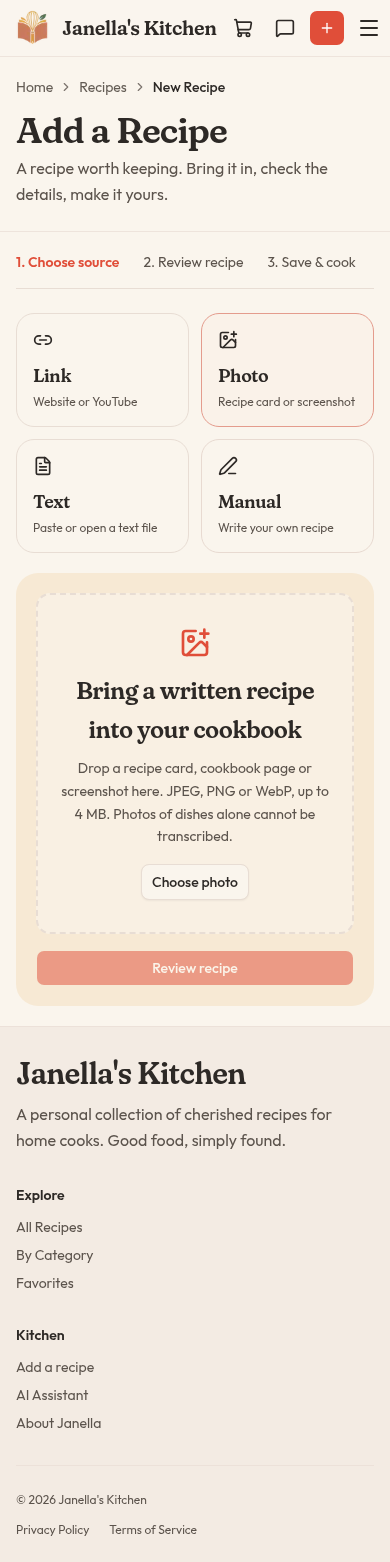
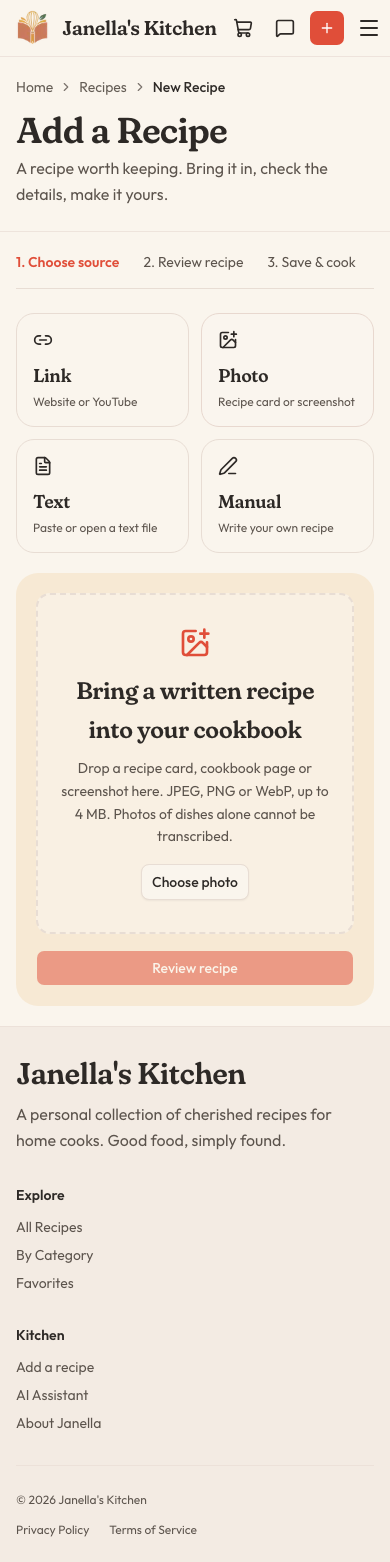
fix(mcp): return bearer challenges for rejected credentials (#144)
- Remove OAuth protected-resource discovery for the shared-token endpoint
- Document token rotation and add coverage for bearer challenges and initialization

diff --git a/tests/recipe-mcp.test.ts b/tests/recipe-mcp.test.ts
@@ -7,10 +7,7 @@ import type { RecipeWithRelations } from "@/types/recipe";
 import type { JsonObject } from "@/types/json";
 import { z } from "zod";
 
-const [{ createRecipeTools }, { GET: protectedResource }] = await Promise.all([
-  import("@/lib/recipe-mcp"),
-  import("@/app/.well-known/oauth-protected-resource/route"),
-]);
+const { createRecipeTools } = await import("@/lib/recipe-mcp");
 
 const token = "synthetic-mcp-token";
 
@@ -279,48 +276,58 @@ function request(
   });
 }
 
-test("the HTTP endpoint rejects missing and invalid credentials before recipe access", async () => {
-  vi.stubEnv("MCP_API_TOKEN", token);
-  vi.resetModules();
+test.each([
+  { authorization: null, challenge: 'Bearer realm="Janella Cookbook"' },
+  {
+    authorization: "Basic synthetic-mcp-token",
+    challenge: 'Bearer realm="Janella Cookbook"',
+  },
+  {
+    authorization: "Bearer previous-cookbook-token",
+    challenge:
+      'Bearer realm="Janella Cookbook", error="invalid_token", error_description="Update the client Authorization header with the current cookbook token"',
+  },
+])(
+  "the HTTP endpoint challenges $authorization before handling the MCP request",
+  async ({ authorization, challenge }) => {
+    vi.stubEnv("MCP_API_TOKEN", token);
+    vi.resetModules();
 
-  const { POST } = await import("@/app/api/mcp/route");
+    const { POST } = await import("@/app/api/mcp/route");
+    const response = await POST(request("tools/list", {}, authorization));
 
-  const responses = await Promise.all(
-    [null, "Bearer incorrect-token", "Basic synthetic-mcp-token"].map((authorization) =>
-      Promise.resolve(POST(request("tools/list", {}, authorization))),
-    ),
-  );
-
-  for (const response of responses) {
     expect(response.status).toBe(401);
-    expect(response.headers.get("www-authenticate")).toContain(
-      "https://cookbook.example/.well-known/oauth-protected-resource",
-    );
-  }
+    expect(response.headers.get("WWW-Authenticate")).toBe(challenge);
+  },
+);
 
-  expect(listRecipes).not.toHaveBeenCalled();
-  expect(createRecipe).not.toHaveBeenCalled();
-});
-
-test("the endpoint fails closed when its token is missing and advertises proxy metadata", async () => {
+test("the endpoint fails closed even with a client token when its server token is missing", async () => {
   vi.stubEnv("MCP_API_TOKEN", "");
   vi.resetModules();
 
   const { POST } = await import("@/app/api/mcp/route");
 
-  expect((await POST(request("tools/list", {}))).status).toBe(503);
+  const response = await POST(request("tools/list", {}));
+  expect(response.status).toBe(503);
+  expect(response.headers.has("WWW-Authenticate")).toBe(false);
+});
 
-  const response = protectedResource(
-    new Request("http://localhost:3000/.well-known/oauth-protected-resource", {
-      headers: { "x-forwarded-host": "cookbook.example", "x-forwarded-proto": "https" },
+test("the current bearer token can initialize an MCP connection", async () => {
+  vi.stubEnv("MCP_API_TOKEN", token);
+  vi.resetModules();
+
+  const { POST } = await import("@/app/api/mcp/route");
+
+  const response = await POST(
+    request("initialize", {
+      protocolVersion: "2025-06-18",
+      capabilities: {},
+      clientInfo: { name: "test-client", version: "1.0.0" },
     }),
   );
 
-  expect(await response.json()).toMatchObject({
-    resource: "https://cookbook.example/api/mcp",
-    authorization_servers: [],
-    scopes_supported: ["recipes:read", "recipes:write"],
-  });
+  expect(response.status).toBe(200);
+  expect(await response.text()).toContain('"name":"janella-cookbook"');
 });
 
 test("stateless GET returns 405 after authentication", async () => {

diff --git a/app/api/mcp/route.ts b/app/api/mcp/route.ts
@@ -1,6 +1,6 @@
 import { createHash, timingSafeEqual } from "node:crypto";
 import type { AuthInfo } from "@modelcontextprotocol/server";
-import { createMcpHandler, withMcpAuth } from "mcp-handler";
+import { createMcpHandler } from "mcp-handler";
 import { registerRecipeTools } from "@/lib/recipe-mcp";
 import { env } from "@/lib/env";
 
@@ -19,29 +19,43 @@ const mcpHandler = createMcpHandler(registerRecipeTools, {
   maxSubscriptions: 0,
 });
 
-function verifyToken(_request: Request, token?: string): AuthInfo | undefined {
-  const expected = env.MCP_API_TOKEN;
-
-  if (!token || !expected) {
-    return undefined;
-  }
-
-  if (!timingSafeEqual(digest(token), digest(expected))) {
-    return undefined;
-  }
-
-  return { token, clientId: "cookbook", scopes: ["recipes:read", "recipes:write"] };
-}
-
-const authenticatedHandler = withMcpAuth(mcpHandler, verifyToken, { required: true });
+const bearerChallenge = 'Bearer realm="Janella Cookbook"';
 
 function handler(request: Request) {
+  const expected = env.MCP_API_TOKEN;
+
   // Never expose a writable public endpoint when deployment configuration is missing.
-  if (!env.MCP_API_TOKEN) {
+  if (!expected) {
     return Response.json({ error: "Recipe MCP is not configured." }, { status: 503 });
   }
 
-  return authenticatedHandler(request);
+  const authorization = request.headers.get("Authorization") ?? "";
+  const token = /^Bearer +(\S+)$/i.exec(authorization)?.[1];
+
+  if (!token) {
+    return new Response(null, {
+      status: 401,
+      headers: { "WWW-Authenticate": bearerChallenge },
+    });
+  }
+
+  if (!timingSafeEqual(digest(token), digest(expected))) {
+    const description = "Update the client Authorization header with the current cookbook token";
+
+    return Response.json(
+      { error: "invalid_token", error_description: description },
+      {
+        status: 401,
+        headers: {
+          "WWW-Authenticate": `${bearerChallenge}, error="invalid_token", error_description="${description}"`,
+        },
+      },
+    );
+  }
+
+  const auth: AuthInfo = { token, clientId: "cookbook", scopes: ["recipes:read", "recipes:write"] };
+
+  return mcpHandler(Object.assign(request, { auth }));
 }
 
 export { handler as GET, handler as POST };

diff --git a/README.md b/README.md
@@ -52,7 +52,7 @@ Set `MCP_API_TOKEN` to a random secret in your local environment or the Vercel p
 openssl rand -hex 32
 ```
 
-All MCP requests require `Authorization: Bearer <your token>`. A missing server token disables the endpoint with HTTP 503; missing or invalid client credentials return HTTP 401. This setup uses a shared token; clients must support an explicit Authorization header. Interactive OAuth sign-in is not implemented.
+All MCP requests require `Authorization: Bearer <your token>`. A missing server token disables the endpoint with HTTP 503. Missing client credentials receive HTTP 401 with a Bearer challenge. A rejected bearer token receives HTTP 401 with `invalid_token`. If the token was rotated, update the client's Authorization header with the current token. The shared token grants access to all recipe tools and has no automatic expiry. Clients must support an explicit Authorization header. The endpoint has no OAuth discovery, sign-in, or refresh flow.
 
 For clients that accept a remote MCP URL and headers, add this entry to their `mcpServers` configuration:
 
